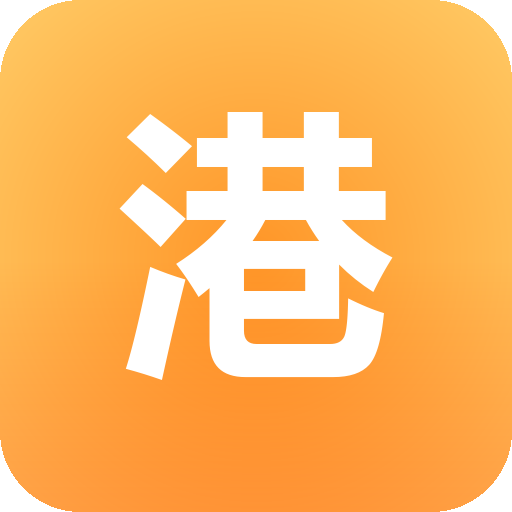
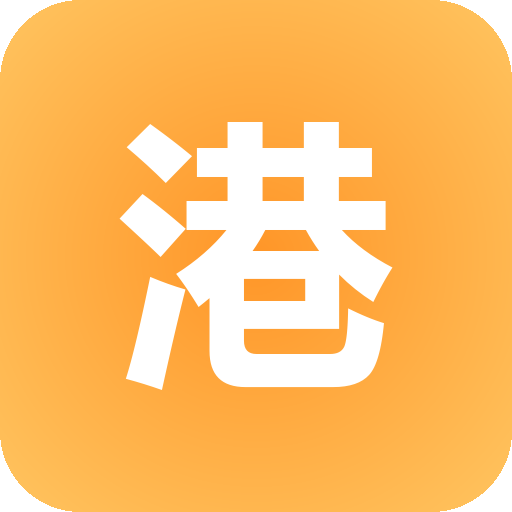
feat: 重新生成主屏图标 — textbbox精确居中+干净渐变

diff --git a/gen_icon_v1.py b/gen_icon_v1.py
@@ -1,4 +1,4 @@
-"""方案1 — 用像素真实范围居中"""
+"""主屏幕图标 — 旭日东升：暖橙金径向渐变 + 白色港字数学居中"""
 from PIL import Image, ImageDraw, ImageFont
 import os
 
@@ -7,64 +7,41 @@ OUT = os.path.join(BASE, "icon-previews")
 SIZE = 512
 R = 80
 FONT_PATH = r"C:\Windows\Fonts\msyhbd.ttc"
-cx, cy = SIZE // 2, SIZE // 2
+CX, CY = SIZE // 2, SIZE // 2
 
-def load_font(size):
-    return ImageFont.truetype(FONT_PATH, size)
-
-# 1) 暖橙金径向渐变
+# ===== 1. 暖橙金径向渐变背景 =====
 img = Image.new("RGB", (SIZE, SIZE), (255, 130, 20))
 draw = ImageDraw.Draw(img)
-for r in range(int(SIZE * 0.8), 0, -1):
-    ratio = r / (SIZE * 0.8)
+max_r = int(SIZE * 0.75)
+for r in range(max_r, 0, -1):
+    ratio = r / max_r
     rr = 255
-    gg = int(210 - 60 * (1 - ratio))
-    bb = int(110 - 70 * (1 - ratio))
-    draw.ellipse([cx - r, cy - r, cx + r, cy + r], fill=(rr, gg, bb))
-for y in range(SIZE // 2, SIZE):
-    alpha = (y - SIZE // 2) / (SIZE // 2)
-    r_overlay = int(200 * alpha)
-    for x in range(SIZE):
-        px = img.getpixel((x, y))
-        r2 = min(255, px[0] + r_overlay)
-        g2 = max(0, px[1] - int(40 * alpha))
-        b2 = max(0, px[2] - int(30 * alpha))
-        draw.point((x, y), fill=(r2, g2, b2))
+    gg = int(200 - 50 * (1 - ratio))
+    bb = int(100 - 60 * (1 - ratio))
+    draw.ellipse([CX - r, CY - r, CX + r, CY + r], fill=(rr, gg, bb))
 
-# 2) 圆角蒙版
+# ===== 2. 圆角蒙版 =====
 mask = Image.new("L", (SIZE, SIZE), 0)
-ImageDraw.Draw(mask).rounded_rectangle([0, 0, SIZE-1, SIZE-1], radius=R, fill=255)
+ImageDraw.Draw(mask).rounded_rectangle([0, 0, SIZE - 1, SIZE - 1], radius=R, fill=255)
 img_rgba = Image.new("RGBA", (SIZE, SIZE), (0, 0, 0, 0))
 img_rgba.paste(img, (0, 0))
 img_rgba.putalpha(mask)
 
-# 3) 渲染港字到独立图层，测真实像素范围
+# ===== 3. 白色"港"字，textbbox 精确居中 =====
+font = ImageFont.truetype(FONT_PATH, 280)
 char_layer = Image.new("RGBA", (SIZE, SIZE), (0, 0, 0, 0))
 char_draw = ImageDraw.Draw(char_layer)
 
-# 用一个偏大的字号测试，但用 measure 像素范围定位
-font = load_font(280)
-char_draw.text((0, 0), "港", font=font, fill=(0, 0, 0, 255))  # 在临时位置画
-# 测像素 bbox
-char_bbox = char_layer.getbbox()  # 实际像素覆盖的 bbox
-print("测得字符像素 bbox:", char_bbox)
+bbox = char_draw.textbbox((0, 0), "港", font=font)
+tw = bbox[2] - bbox[0]  # 文字实际宽度
+th = bbox[3] - bbox[1]  # 文字实际高度
+px = (SIZE - tw) // 2 - bbox[0]
+py = (SIZE - th) // 2 - bbox[1]
 
-# 字符的视觉 bounding box
-if char_bbox:
-    cb_x0, cb_y0, cb_x1, cb_y1 = char_bbox
-    cb_w = cb_x1 - cb_x0
-    cb_h = cb_y1 - cb_y0
-    # 居中
-    px = (SIZE - cb_w) // 2 - cb_x0
-    py = (SIZE - cb_h) // 2 - cb_y0 - 10  # 略上移
-    print(f"字符宽高: {cb_w}x{cb_h}, 居中到 ({px}, {py})")
-
-# 清空重新画
-char_layer = Image.new("RGBA", (SIZE, SIZE), (0, 0, 0, 0))
-char_draw = ImageDraw.Draw(char_layer)
 char_draw.text((px, py), "港", font=font, fill=(255, 255, 255, 255))
 
-# 合并
+# ===== 4. 合并输出 =====
 final = Image.alpha_composite(img_rgba, char_layer)
+os.makedirs(OUT, exist_ok=True)
 final.save(os.path.join(OUT, "01-sunrise.png"))
-print("Done:", OUT + "/01-sunrise.png")
+print(f"Done: {OUT}/01-sunrise.png  tw={tw} th={th} pos=({px},{py})")
